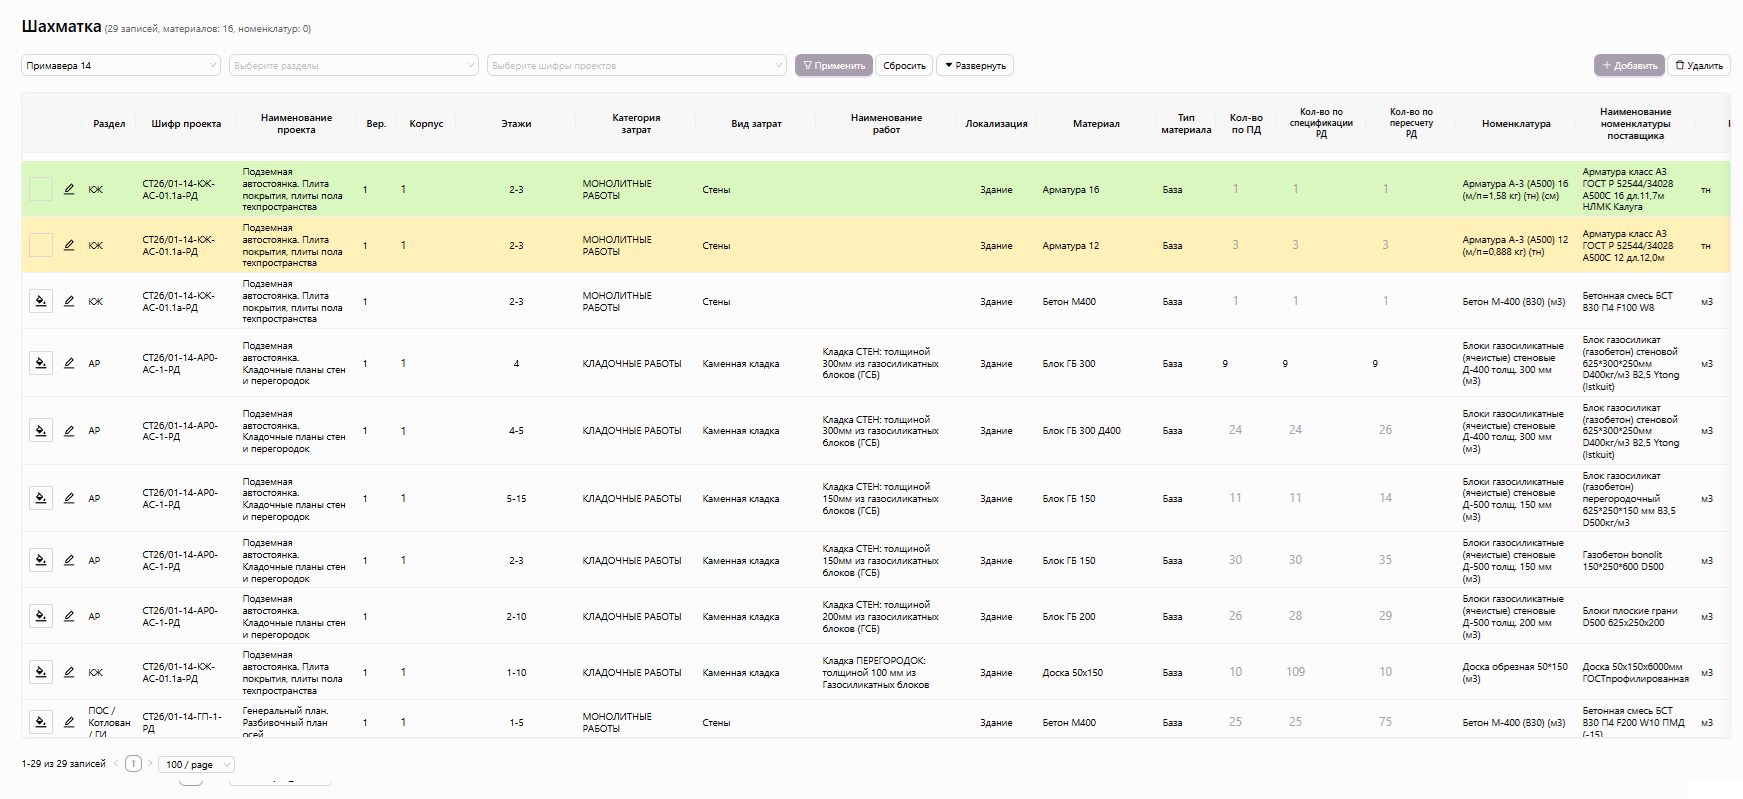
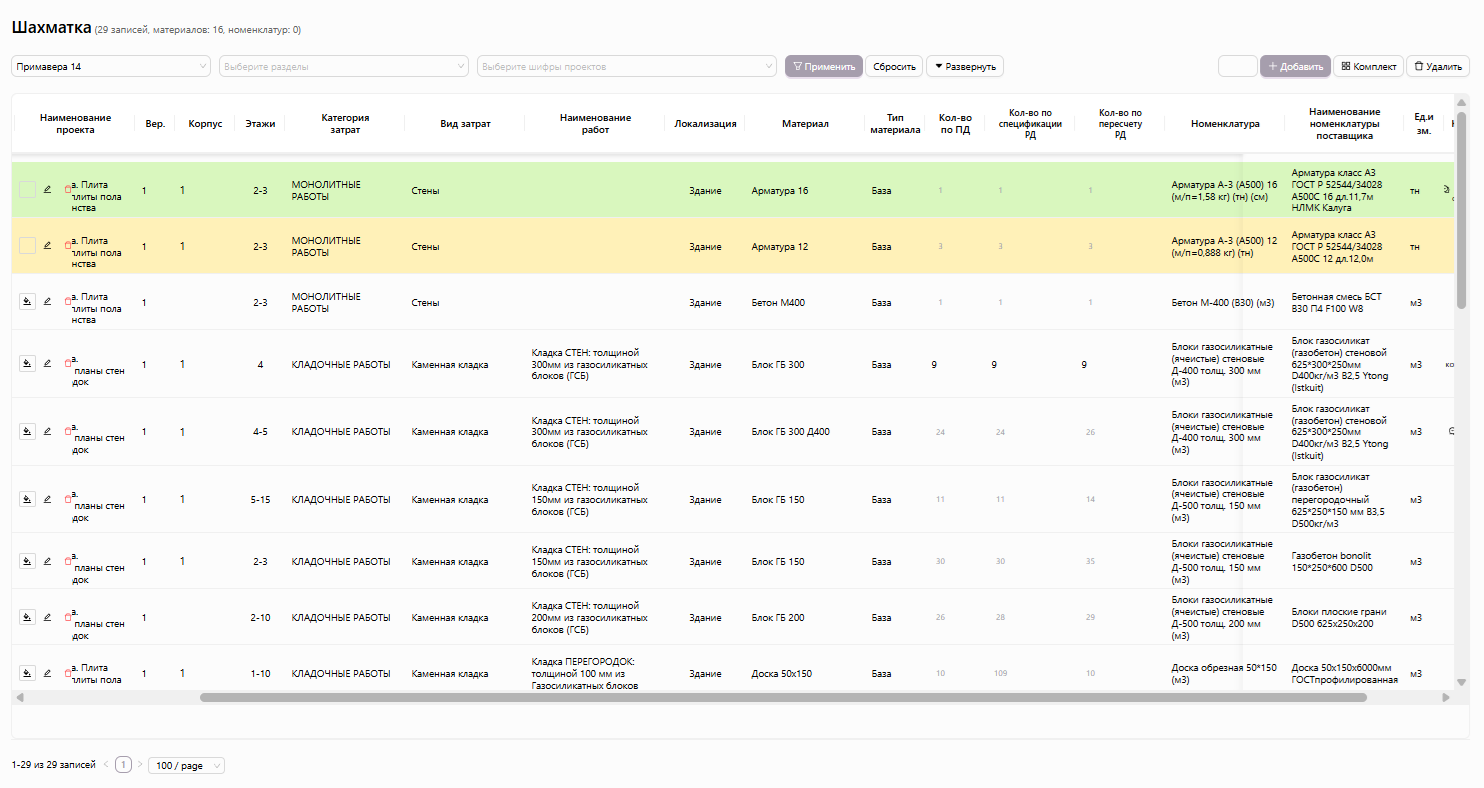
отображение шахматки

diff --git a/src/pages/documents/Chessboard/components/ChessboardTable.tsx b/src/pages/documents/Chessboard/components/ChessboardTable.tsx
@@ -2974,21 +2974,57 @@ export const ChessboardTable = memo(({
         .chessboard-table .ant-table-body {
           overflow: visible !important;
         }
-        /* Sticky заголовки БЕЗ создания отдельной прокручиваемой области */
+        /* Sticky заголовки с закреплением к блоку фильтров */
         .chessboard-table .ant-table-header {
           position: sticky !important;
           top: 0 !important;
-          z-index: 10 !important;
+          z-index: 100 !important;
           background: white !important;
           /* ВАЖНО: не создаем overflow для заголовков */
           overflow: visible !important;
         }
-        /* Синхронизируем прокрутку заголовков с телом таблицы */
-        .chessboard-table .ant-table-thead {
+        /* Восстанавливаем скроллы для таблицы */
+        .chessboard-table .ant-table-container {
+          height: calc(100vh - 300px) !important;
+          overflow: auto !important;
+          border: 1px solid #f0f0f0 !important;
+          border-radius: 6px !important;
+        }
+        .chessboard-table .ant-table-body {
+          height: auto !important;
           overflow: visible !important;
+        }
+        .chessboard-table .ant-table-thead {
+          position: sticky !important;
+          top: 0 !important;
+          z-index: 100 !important;
+          background: white !important;
         }
         .chessboard-table .ant-table-tbody {
           overflow: visible !important;
+        }
+        /* Обеспечиваем корректную работу sticky заголовков для каждой ячейки */
+        .chessboard-table .ant-table-thead > tr > th {
+          position: sticky !important;
+          top: 0 !important;
+          background: white !important;
+          z-index: 101 !important;
+          border-bottom: 1px solid #f0f0f0 !important;
+        }
+        /* Убираем лишние границы и тени, которые создают визуальные полосы */
+        .chessboard-table .ant-table {
+          border: none !important;
+        }
+        .chessboard-table .ant-table-content {
+          border: none !important;
+        }
+        .chessboard-table .ant-table-scroll {
+          border: none !important;
+        }
+        /* Исправляем отображение при горизонтальном скролле */
+        .chessboard-table .ant-table-container::before,
+        .chessboard-table .ant-table-container::after {
+          display: none !important;
         }
       `}</style>
       <Table<RowData>
@@ -2997,7 +3033,8 @@ export const ChessboardTable = memo(({
         style={{
           tableLayout: 'fixed',
           width: '100%',
-          height: '100%'
+          height: '100%',
+          flex: 1,
         }}
         columns={visibleColumnsData}
         dataSource={data}
@@ -3007,6 +3044,11 @@ export const ChessboardTable = memo(({
         rowClassName={rowClassName}
         pagination={false}
         size="small"
+        sticky={{
+          offsetHeader: 0,
+          offsetScroll: 0,
+        }}
+        scroll={TABLE_SCROLL_CONFIG}
       />
 
       <FloorQuantitiesModal

diff --git a/src/pages/documents/Chessboard/index.tsx b/src/pages/documents/Chessboard/index.tsx
@@ -553,10 +553,11 @@ export default function Chessboard() {
         <div
           style={{
             flex: 1,
-            overflow: 'auto', // Восстанавливаем прокрутку
-            border: '1px solid #f0f0f0',
-            borderRadius: '6px',
+            overflow: 'hidden', // Контейнер без прокрутки
             minHeight: 0,
+            position: 'relative', // Для корректной работы sticky
+            display: 'flex',
+            flexDirection: 'column',
           }}
         >
           <ChessboardTable
